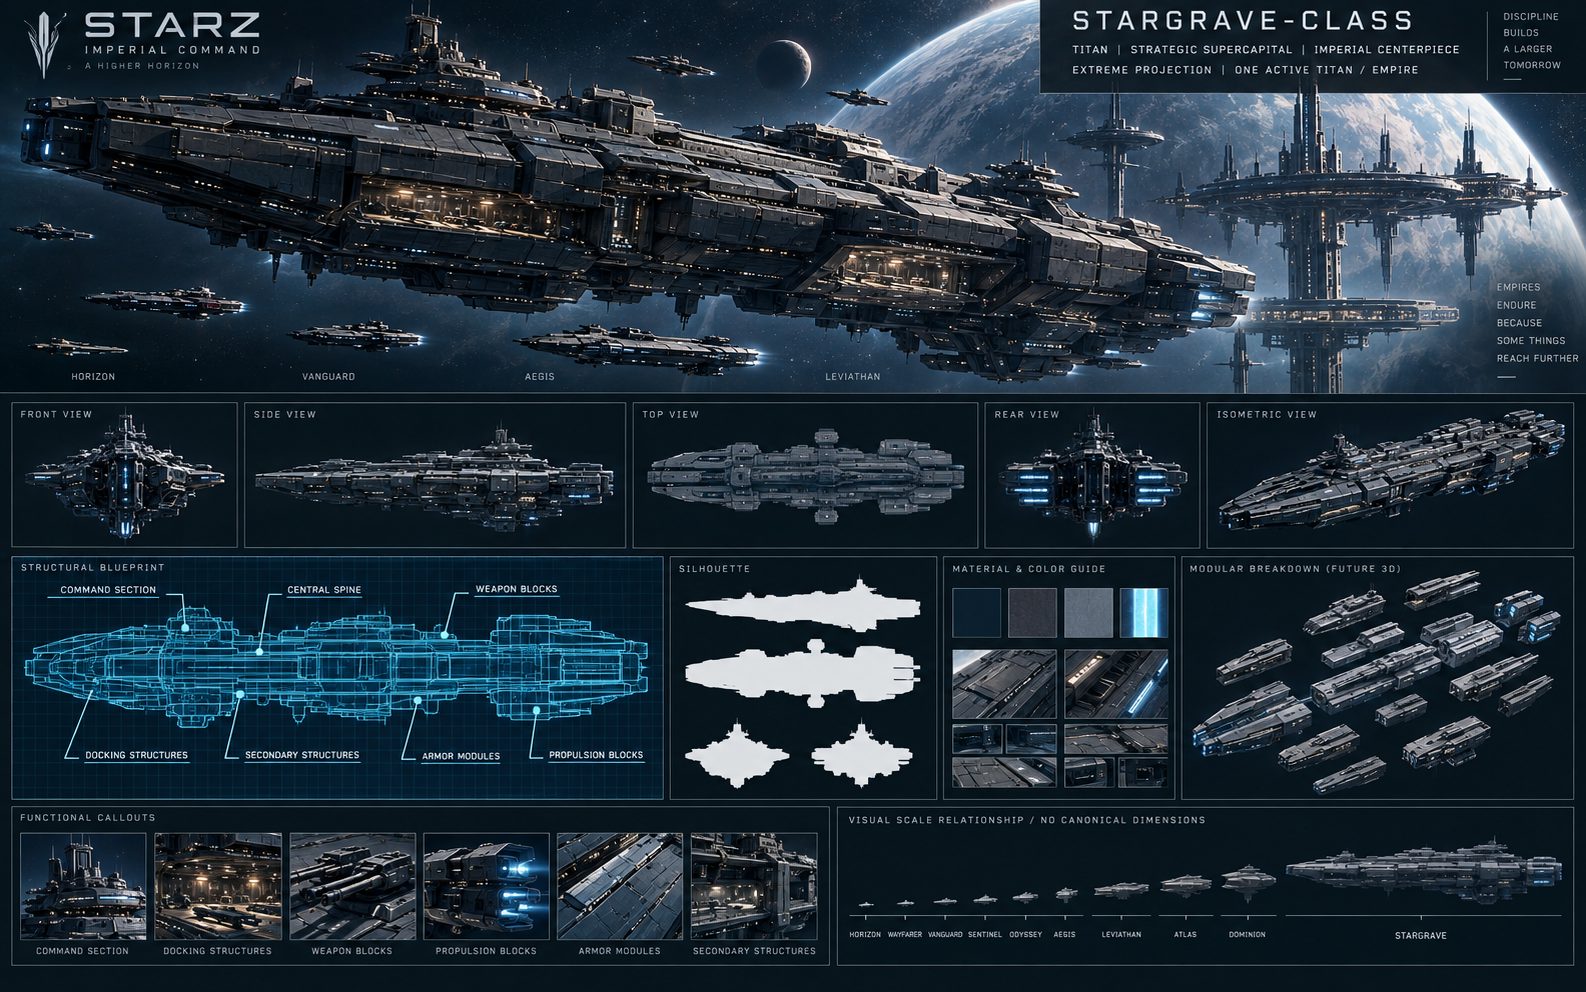
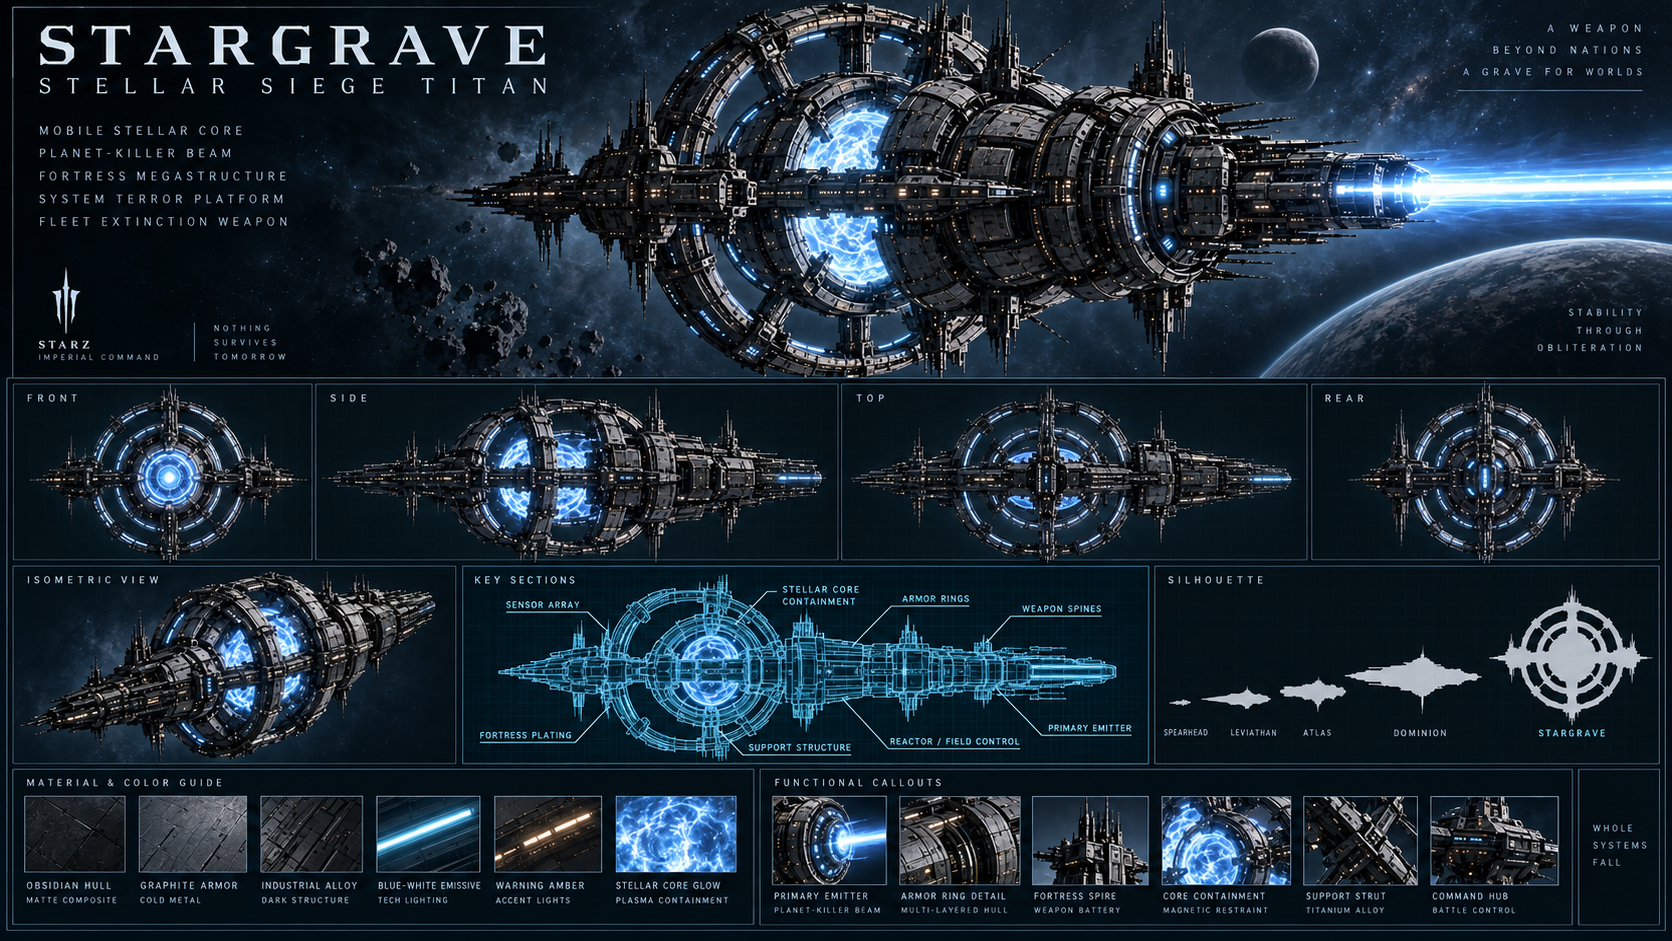
docs: update stargrave visual asset

diff --git a/docs/design/imperial-command-v2/frotas/STARGRAVE-CLASS.md b/docs/design/imperial-command-v2/frotas/STARGRAVE-CLASS.md
@@ -4,22 +4,24 @@
 
 Rodada: V3 — supercapital. Direção: Imperial Command.
 
-![Prancha conceitual Stargrave-class](assets/stargrave-class-concept.png)
+![Prancha conceitual Stargrave-class — novo asset Stellar Siege Titan](assets/stargrave-class-concept.png)
 
 ## Função
 
-Supercapital estratégico, centro da frota de endgame e plataforma extrema de comando e projeção.
+Titan de cerco estratégico, centro da frota de endgame e plataforma extrema de comando e projeção. O novo asset o identifica como **Stellar Siege Titan**: uma arma de escala interestelar, construída para projetar poder além de uma única nação.
 
 ## Silhueta e arquitetura
 
-Espinha central massiva, volumes internos profundos, camadas estruturais e módulos industriais gigantescos com docagem e serviço.
+Núcleo estelar móvel contido por anéis de blindagem e contenção, espinha central de armas e um emissor primário de alta energia. A arquitetura combina fortaleza de megastruturas, volumes internos profundos, camadas estruturais e módulos industriais gigantescos com docagem e serviço.
 
 Stargrave é a classe, não um nome individual obrigatório. A prancha individual define o casco longitudinal modular; os quadros coletivos exibem uma versão mais vertical e não substituem esta referência.
 
 ## Regiões funcionais
 
 - Seção de comando e espinha central.
-- Blocos de armas e módulos de blindagem.
+- Núcleo estelar móvel e anéis de contenção.
+- Emissor primário / arma de extinção planetária.
+- Blocos de armas, blindagem de fortaleza e suportes de titânio.
 - Estruturas de docagem, propulsão e estruturas secundárias.
 
 ## Materiais e identificação
